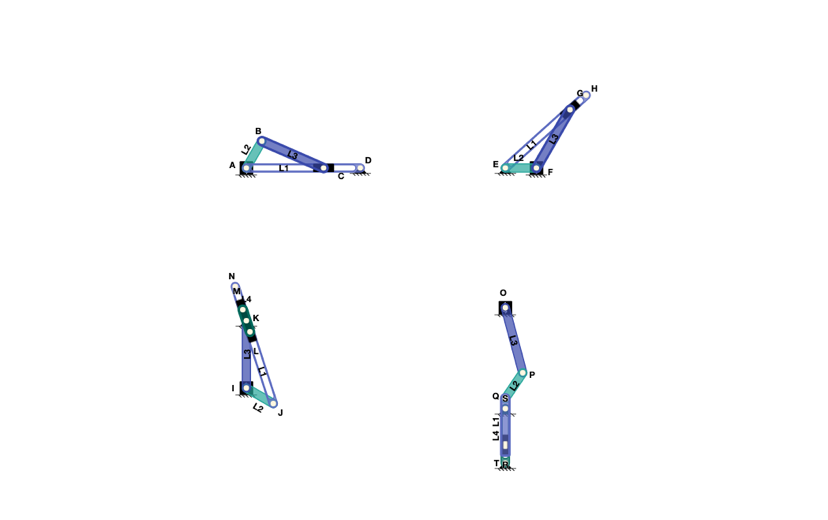
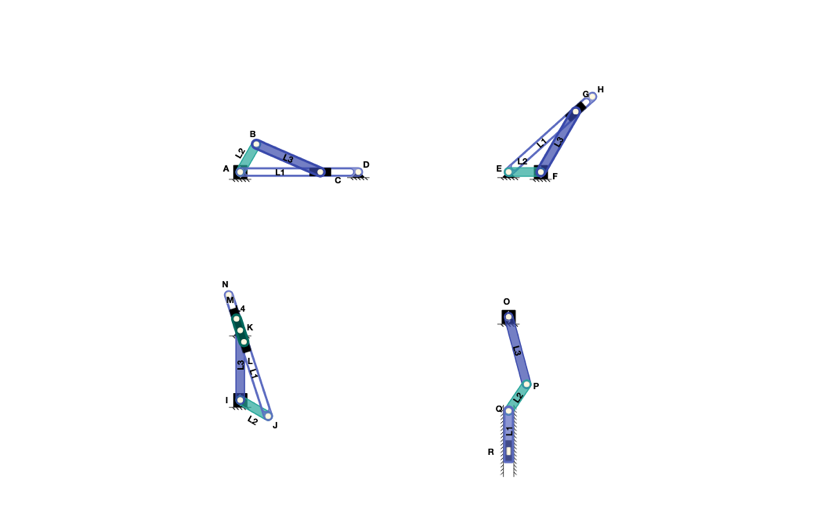
Run the pendulum pump's rod in a ground guide, so the guide can be seen
Watching it play, the dark-teal barrel was hidden under the indigo pump rod
on the same line, with only a sliver showing at the bottom, and the labels
of four joints piled on each other. The rod now runs in a ground guide, drawn
with hatching like a fixed barrel, which reads as what it is: the piston, held,
is the frame. A moving slot over a fixed pin would have kept L4 as a bar of
its own, but the app cannot slide a slider's pin on ground.

diff --git a/src/app/component/MODALS/templates/template-linkages.ts b/src/app/component/MODALS/templates/template-linkages.ts
@@ -239,7 +239,7 @@ export const TEMPLATE_LINKAGES: Record<TemplateID, string> = {
   Four_Bar_Inversions:
     '2v.Ay,1E8.5,0.1011.6A,A,0,1Tm,0,,,,2SG,,Crank-rocker (L4 grounded).0B,B,DY,1ba,0.0C,C,D9,24q,0.4D,D,d4,1Tm,0.6E,E,2Ce,1Tm,0,,,,2SG,,Crank-rocker (L2 grounded).0F,F,2QA,1ba,0.0G,G,2Yd,2Bj,0.4H,H,2hu,1Tm,0.6I,I,0,0,0,,,,2SG,,Double crank or drag link (L1 grounded).0J,J,05R,Uo,0.0K,K,fR,TL,0.4L,L,Fe,0,0.6M,M,2Ce,0,0,,,,2SG,,Double rocker (L3 grounded).0N,N,2NK,TN,0.0O,O,2cX,Wz,0.4P,P,2xW,0,0..YRAB,L1,0,0,6n,1Xg,303e9f,A,B,,.YRBC,L2,0,0,DM,1rC,26A69A,B,C,,.YRCD,L3,0,0,Q7,1nI,0d125a,C,D,,.YRAD,L4,0,0,JY,1Tm,00695C,A,D,,.YREF,L1,0,0,2JP,1Xg,303e9f,E,F,,.YRFG,L4,0,0,2UO,1ue,00695C,F,G,,.YRGH,L3,0,0,2dF,1qk,0d125a,G,H,,.YREH,L2,0,0,2SG,1Tm,26A69A,E,H,,.YRIJ,L2,0,0,02k,FP,26A69A,I,J,,.YRJK,L3,0,0,I0,U3,0d125a,J,K,,.YRKL,L4,0,0,SY,Eh,00695C,K,L,,.YRIL,L1,0,0,7q,0,303e9f,I,L,,.YRMN,L2,0,0,2H_,Ei,26A69A,M,N,,.YRNO,L1,0,0,2Ux,VA,303e9f,N,O,,.YROP,L4,0,0,2n1,GU,00695C,O,P,,.YRMP,L3,0,0,2a4,0,0d125a,M,P,,...N_.PJB~0~0.8660254037844388,PJC~0~0.8414601849332004,PJC~1~8.499849131815395,PJF~0~9.86602540378444,PJG~0~10.406904838222296,PJG~1~8.940788691673696,PJJ~0~-0.3472963553338606,PJJ~1~1.969615506024416,PJK~0~2.651275029272438,PJK~1~1.8770430942579102,PJN~0~9.684040286651337,PJN~1~1.8793852415718166,PJO~0~10.657354236661728,PJO~1~2.108862810661185,PLAB~2~0.4330127018922194,PLBC~2~0.8537427943588196,PLBC~3~7.499924565907698,PLCD~2~1.6707300924666,PLCD~3~7.249924565907698,PLEF~2~9.43301270189222,PLFG~2~10.136465121003368,PLFG~3~7.720394345836848,PLGH~2~10.703452419111148,PLGH~3~7.470394345836848,PLIJ~2~-0.1736481776669303,PLIJ~3~0.984807753012208,PLJK~2~1.1519893369692884,PLJK~3~1.923329300141163,PLKL~2~1.825637514636219,PLKL~3~0.9385215471289551,PLMN~2~9.34202014332567,PLMN~3~0.9396926207859083,PLNO~2~10.170697261656533,PLNO~3~1.9941240261165007,PLOP~2~11.328677118330866,PLOP~3~1.0544314053305925C*47sgEB',
   Slider_Crank_Inversions:
-    '2v.Ay,1E8.5,0.1011.6A,A,0,2Ce,0,,,,2SG,,Engine (L1 grounded).0B,B,9O,2St,0.1C,C,kd,2Ce,0,AD,A,D.4D,D,14m,2Ce,0.4E,E,2SG,2Ce,0.6F,F,2l0,2Ce,0,,,,2SG,,Quick return (L2 grounded).1G,G,33K,2lq,0,EH,E,H.0H,H,3D1,2uZ,0.6I,I,0,7q,0,,,,2SG,,Oscillating cylinder (L3 grounded).0J,J,GF,01a,0.4K,K,0,mS,0.1L,L,2B,fm,0,JN,J,N.1M,M,02B,t8,0,JN,J,N.0N,N,06i,152,0.6O,O,2SG,uG,0,,,,2SG,,Pendulum pump (L4 grounded).0P,P,2cn,H1,0.0Q,Q,2SG,1V,0.9R,R,2SG,0Qf,0,ST,S,T.4S,S,2SG,04i,0.4T,T,2SG,0bW,0..YRAB,L2,0,0,4i,2Km,26A69A,A,B,,.YRBC,L3,0,0,S0,2Km,0d125a,B,C,,.YRAD,L1,0,0,YO,2Ce,303e9f,A,D,,.YRFG,L3,0,0,2vA,2UE,0d125a,F,G,,.YREH,L1,0,0,2qe,2Yb,303e9f,E,H,,.YREF,L2,0,0,2be,2Ce,26A69A,E,F,,.YRIJ,L2,0,0,88,38,26A69A,I,J,,.YRIK,L3,0,0,0,S8,0d125a,I,K,,.YRKLM,L4,0,0,0,mS,00695C,K,L,M,,.YRJN,L1,0,0,4o,Xl,303e9f,J,N,,.YROP,L3,0,0,2XW,ae,0d125a,O,P,,.YRPQ,L2,0,0,2XW,9G,26A69A,P,Q,,.YRQR,L1,0,0,2SG,0Cb,303e9f,Q,R,,.YRST,L4,0,0,2SG,0L6,00695C,S,T,,...N_.PJB~0~0.6000000000000001,PJB~1~10.039230484541326,PJC~0~2.9832750575625973,PJD~0~4.3999999999999995,PJG~1~11.25166604983954,PJH~0~13.120801065958263,PJH~1~11.810800723408507,PJJ~0~1.0392304845413265,PJJ~1~-0.09999999999999985,PJL~0~0.1389956401685525,PJL~1~2.67200442524001,PJM~0~-0.1389956401685525,PJM~1~3.52799557475999,PJN~0~-0.4279457172378389,PJN~1~4.417731066911006,PJP~0~10.672929517266553,PJP~1~1.0885928516484222,PJQ~1~0.095030641823892,PJR~1~-1.7049693581761083,PJS~1~-0.29999999999999993,PLAB~2~0.30000000000000004,PLAB~3~9.519615242270664,PLBC~2~1.7916375287812984,PLBC~3~9.519615242270664,PLAD~2~2.1999999999999997,PLFG~3~10.125833024919771,PLEH~2~11.56040053297913,PLEH~3~10.405400361704253,PLIJ~2~0.5196152422706632,PLIJ~3~0.20000000000000007,PLJN~2~0.3056423836517438,PLJN~3~2.1588655334555034,PLOP~2~10.336464758633277,PLOP~3~2.3442964258242114,PLPQ~2~10.336464758633277,PLPQ~3~0.5918117467361571,PLQR~3~-0.804969358176108G*2ANxqz',
+    '2v.Ay,1E8.5,0.1011.6A,A,0,2Ce,0,,,,2SG,,Engine (L1 grounded).0B,B,9O,2St,0.1C,C,kd,2Ce,0,AD,A,D.4D,D,14m,2Ce,0.4E,E,2SG,2Ce,0.6F,F,2l0,2Ce,0,,,,2SG,,Quick return (L2 grounded).1G,G,33K,2lq,0,EH,E,H.0H,H,3D1,2uZ,0.6I,I,0,7q,0,,,,2SG,,Oscillating cylinder (L3 grounded).0J,J,GF,01a,0.4K,K,0,mS,0.1L,L,2B,fm,0,JN,J,N.1M,M,02B,t8,0,JN,J,N.0N,N,06i,152,0.6O,O,2SG,uG,0,,,,2SG,,Pendulum pump (L4 grounded).0P,P,2cn,H1,0.0Q,Q,2SG,1V,0.DR,R,2SG,0Lz,OZ..YRAB,L2,0,0,4i,2Km,26A69A,A,B,,.YRBC,L3,0,0,S0,2Km,0d125a,B,C,,.YRAD,L1,0,0,YO,2Ce,303e9f,A,D,,.YRFG,L3,0,0,2vA,2UE,0d125a,F,G,,.YREH,L1,0,0,2qe,2Yb,303e9f,E,H,,.YREF,L2,0,0,2be,2Ce,26A69A,E,F,,.YRIJ,L2,0,0,88,38,26A69A,I,J,,.YRIK,L3,0,0,0,S8,0d125a,I,K,,.YRKLM,L4,0,0,0,mS,00695C,K,L,M,,.YRJN,L1,0,0,4o,Xl,303e9f,J,N,,.YROP,L3,0,0,2XW,ae,0d125a,O,P,,.YRPQ,L2,0,0,2XW,9G,26A69A,P,Q,,.YRQR,L1,0,0,2SG,0AF,303e9f,Q,R,,...N_.PJB~0~0.6000000000000001,PJB~1~10.039230484541326,PJC~0~2.9832750575625973,PJD~0~4.3999999999999995,PJG~1~11.25166604983954,PJH~0~13.120801065958263,PJH~1~11.810800723408507,PJJ~0~1.0392304845413265,PJJ~1~-0.09999999999999985,PJL~0~0.1389956401685525,PJL~1~2.67200442524001,PJM~0~-0.1389956401685525,PJM~1~3.52799557475999,PJN~0~-0.4279457172378389,PJN~1~4.417731066911006,PJP~0~10.672929517266553,PJP~1~1.0885928516484222,PJQ~1~0.095030641823892,PJR~1~-1.4049693581761078,PJR~2~1.5707963267948966,PLAB~2~0.30000000000000004,PLAB~3~9.519615242270664,PLBC~2~1.7916375287812984,PLBC~3~9.519615242270664,PLAD~2~2.1999999999999997,PLFG~3~10.125833024919771,PLEH~2~11.56040053297913,PLEH~3~10.405400361704253,PLIJ~2~0.5196152422706632,PLIJ~3~0.20000000000000007,PLJN~2~0.3056423836517438,PLJN~3~2.1588655334555034,PLOP~2~10.336464758633277,PLOP~3~2.3442964258242114,PLPQ~2~10.336464758633277,PLPQ~3~0.5918117467361571,PLQR~3~-0.6549693581761087*2qedAO',
   Four_Bar:
     '2v.Fe,1E8.A,0.1011.6A,A,0mv,0VU,0,,,,,,Four-bar.0B,B,0e_,E6,0.0C,C,l1,WW,0.4D,D,qD,0Pk,0.GT,T,02W,ni,0..YRAB,AB,0,0,0ix,08i,303e9f,A,B,,.YRBCT,BCT,0,0,1C,W6,26A69A,B,C,T,,.YRCD,CD,0,0,nd,3P,0d125a,C,D,,...N_.PJA~0~-3.1289999999999996,PJT~0~-0.1599,PJT~1~3.1803,PLAB~2~-2.8754999999999997,PLAB~3~-0.5559999999999998,PLBCT~2~0.0757,PLBCT~3~2.0541,PLCD~3~0.2170000000000001y*2vMrJT',
   Scotch_Yoke_Rod:

diff --git a/src/test-utils/verification/inversion-fixtures.ts b/src/test-utils/verification/inversion-fixtures.ts
@@ -244,12 +244,14 @@ export function fourBarInversionsFixture(): MechanismFixture {
  * offset, and the slide is between L1 and L4 in all four. What changes is
  * which link is held.
  *
- * The held link is drawn in every one, the way the four-bar set draws its
- * held bar: the frame as the rail the piston runs on, anchored at both ends;
- * the crank and the rod as bars across their two ground pins; and the piston,
- * in the pump, as the barrel the pump rod runs in, below the pin the pendulum
- * hangs from. Where L4 is a block it is drawn as one, black; where it is a
- * part of its own it is dark teal, the color L4 wears in the four-bar set.
+ * The held link is drawn wherever it is a bar, the way the four-bar set
+ * draws its held bar: the frame as the rail the piston runs on, anchored at
+ * both ends, and the crank and the rod as bars across their two ground pins.
+ * Held by the piston, the frame is the piston: the pin the pendulum hangs
+ * from and the guide the pump rod runs in, both drawn as ground. Where L4 is
+ * a block it is drawn as one, black; where it is a part of its own, the
+ * oscillating engine's cylinder, it is dark teal, the color L4 wears in the
+ * four-bar set.
  *
  * Laid out two by two with room between, since the Whitworth's slotted bar
  * sweeps a circle ROD + CRANK across and the other three reach up or down
@@ -362,11 +364,17 @@ export function sliderCrankInversionsFixture(): MechanismFixture {
   // ---- Held: L4, the piston. Pendulum pump. ------------------------------
   // The piston's two features are fixed now: the gudgeon pin, at the top,
   // which the rod swings from like a pendulum, and the slide, which is the
-  // pump's barrel below it on the same vertical line. The crank links the
+  // pump's guide below it on the same vertical line. The crank links the
   // pendulum to L1, the frame, which is the pump rod now, running up and
-  // down in the barrel. The pendulum can swing only as far as the crank can
+  // down in the guide. The pendulum can swing only as far as the crank can
   // still reach the line, asin(CRANK / ROD) either side of it, and it is
   // driven between those two toggles.
+  //
+  // The guide is drawn as ground rather than as a bar of its own: a bar
+  // carrying the slot sits on the same line as the rod and is hidden under
+  // it, and the app cannot slide a moving slot over a fixed pin to turn the
+  // two round. The rod is welded to its block, as a pump rod is to its
+  // plunger, so it runs straight up and down without tilting.
   const pumpAt = { x: 10, y: 3.6 };
   const swing = (15 * Math.PI) / 180;
   const pendulumEnd = { x: pumpAt.x + ROD * Math.sin(swing), y: pumpAt.y - ROD * Math.cos(swing) };
@@ -374,25 +382,20 @@ export function sliderCrankInversionsFixture(): MechanismFixture {
     x: pumpAt.x,
     y: pendulumEnd.y - Math.sqrt(CRANK * CRANK - (pendulumEnd.x - pumpAt.x) ** 2),
   };
-  // The top of the pump rod stays between ROD cos(asin(CRANK / ROD)) and
-  // ROD + CRANK below the pivot; the barrel takes the rod's lower end.
-  const PUMP_ROD = 1.8;
+  const PUMP_ROD = 1.5;
   const pump: MechanismFixture = {
     joints: [
       { id: 'O', ...pumpAt, ground: true, input: true, driveSpeed: LIBRARY_RPM },
       { id: 'P', ...pendulumEnd },
       { id: 'Q', ...rodTop },
       { id: 'R', x: pumpAt.x, y: rodTop.y - PUMP_ROD },
-      { id: 'S', x: pumpAt.x, y: pumpAt.y - ROD - CRANK - 0.1, ground: true },
-      { id: 'T', x: pumpAt.x, y: pumpAt.y - ROD - CRANK - PUMP_ROD - 0.4, ground: true },
     ],
     links: [
       { joints: 'OP', name: 'L3', mass: 0, moi: 0 },
       { joints: 'PQ', name: 'L2', mass: 0, moi: 0 },
       { joints: 'QR', name: 'L1', mass: 0, moi: 0 },
-      { joints: 'ST', name: 'L4', mass: 0, moi: 0 },
     ],
-    sliders: [{ at: 'R', on: { carrier: 'ST', a: 'S', b: 'T' } }],
+    sliders: [{ at: 'R', angleRad: Math.PI / 2 }],
     welds: ['R'],
     inputAngVel: radPerSecond(LIBRARY_RPM),
   };

diff --git a/src/tests/verification/inversions.spec.ts b/src/tests/verification/inversions.spec.ts
@@ -216,22 +216,29 @@ describe('one slider-crank chain, each link held still in turn', () => {
     expect(named('L1')).toEqual(['AD', 'EH', 'JN', 'QR']);
     expect(named('L2')).toEqual(['AB', 'EF', 'IJ', 'PQ']);
     expect(named('L3')).toEqual(['BC', 'FG', 'IK', 'OP']);
-    expect(named('L4')).toEqual(['KLM', 'ST']);
+    expect(named('L4')).toEqual(['KLM']);
     // The slide is between L1 and L4 every time: the block on L1's rail or
     // slot in the first two, L4's sleeve on L1's slot in the third, and L1's
-    // rod in L4's barrel in the fourth.
-    const carrier = (at: string) =>
-      fixture.links.find(
-        (link) => link.joints === fixture.sliders!.find((s) => s.at === at)!.on!.carrier
-      )!.name;
-    expect(['C', 'G', 'L', 'M', 'R'].map(carrier)).toEqual(['L1', 'L1', 'L1', 'L1', 'L4']);
+    // rod in L4's guide, which is the ground, in the fourth.
+    const carrier = (at: string) => {
+      const on = fixture.sliders!.find((slider) => slider.at === at)!.on;
+      return on ? fixture.links.find((link) => link.joints === on.carrier)!.name : 'ground';
+    };
+    expect(['C', 'G', 'L', 'M', 'R'].map(carrier)).toEqual(['L1', 'L1', 'L1', 'L1', 'ground']);
+    expect(fixture.welds).toEqual(['R']);
   });
 
-  it('holds a different link still each time, and draws it', () => {
+  it('holds a different link still each time, and draws it where it is a bar', () => {
+    // The frame, the crank and the rod are each drawn across their two ground
+    // pins. Held by the piston, the held link is the ground itself: the pin
+    // the pendulum hangs from and the guide the pump rod runs in.
     const fixture = sliderCrankInversionsFixture();
     const grounded = (id: string) => fixture.joints.find((joint) => joint.id === id)!.ground;
     const held = fixture.links.filter((link) => [...link.joints].every(grounded));
-    expect(held.map((link) => link.name)).toEqual(['L1', 'L2', 'L3', 'L4']);
+    expect(held.map((link) => link.name)).toEqual(['L1', 'L2', 'L3']);
+    const pump = fixture.sliders!.find((slider) => slider.at === 'R')!;
+    expect(pump.on).toBeUndefined();
+    expect(grounded('O')).toBe(true);
   });
 
   it('turns the slotted bar right over for one and rocks the cylinder for the other', () => {

diff --git a/src/app/model/mechanism/kinematic-solver.ts b/src/app/model/mechanism/kinematic-solver.ts
@@ -167,8 +167,8 @@ export class KinematicsSolver {
    * A link pinned to ground at every one of its joints cannot move, so no route
    * above solves for it -- and the panel went on offering it the same graphs as
    * anything else, which came back as charts with no data in them. Four of them
-   * in `Four_Bar_Inversions` and four in `Slider_Crank_Inversions`, which draw
-   * their frames rather than leaving them implied: eighty empty series between
+   * in `Four_Bar_Inversions` and three in `Slider_Crank_Inversions`, which draw
+   * their frames rather than leaving them implied: seventy empty series between
    * them.
    *
    * Its kinematics are not missing, though. They are zero, and a flat line

diff --git a/src/test-utils/verification/template-colors.ts b/src/test-utils/verification/template-colors.ts
@@ -207,7 +207,7 @@ const TEMPLATE_PARTS: Partial<Record<LibraryTemplateID, TemplateParts>> = {
       ['AB', 'BC', 'AD'],
       ['FG', 'EH', 'EF'],
       ['IJ', 'IK', 'KLM', 'JN'],
-      ['OP', 'PQ', 'QR', 'ST'],
+      ['OP', 'PQ', 'QR'],
     ],
     fixed: {
       AB: 4,
@@ -223,7 +223,6 @@ const TEMPLATE_PARTS: Partial<Record<LibraryTemplateID, TemplateParts>> = {
       OP: 2,
       PQ: 4,
       QR: 1,
-      ST: 5,
     },
   },
   Pumping_Field: {

diff --git a/docs/fixture-urls.md b/docs/fixture-urls.md
@@ -115,7 +115,7 @@ PMKS_FIXTURE_BASE_URL=https://deploy-preview-NNN--pmksprod.netlify.app npm run f
 | [Screw jack](https://app.pmksplus.com/?2v.Ay,YO.5,0.1011.7A,A,0ID,0,0.0B,B,G4,FE,0.4C,C,0,YO,0..YRAB,AB,0,0,014,7d,c5cae9,A,B,,.YRBC,BC,0,0,82,Op,303e9f,B,C,,...N_.PJA~0~-1.1648667978787246,PJB~0~1.028460175498463,PJB~1~0.9743288910096353,PLAB~2~-0.06820331119013079,PLAB~3~0.48716444550481763,PLBC~2~0.5142300877492315,PLBC~3~1.5871644455048177w*3S9tcB) | A plain guided ram, no cylinder skin: the drive is a length per second, not an rpm | — | — | `linear-actuator-rocker.spec.ts` |
 | [Loader bucket](https://app.pmksplus.com/?2v.Ay,1E8.A,0.1011.6O,O,0,0,0,,,,2SG.0A,A,xS,JK,0.8M,M,1B4,GC,0.0B,B,1Na,Rw,0.8C,C,1GY,1M,0.0D,D,1be,01o,0.4P,P,o0,r8,0..YROA,Lift arm,0,0,Tk,9g,c5cae9,O,A,,.YRAMBCD,Bucket,0,0,1Gs,Cc,00695C,A,M,B,C,D,,AM,MB,MC,CD.YRBP,Tilt link,0,0,14o,eX,c5cae9,B,P,,.NRAM,AM,0,0,13G,Hm,303e9f,A,M,,.NRMB,MB,0,0,1HK,M3,0d125a,M,B,,.NRMC,MC,0,0,1Dp,8n,B2DFDB,M,C,,.NRCD,CD,0,0,1R5,0E,26A69A,C,D,,...N_.PJA~0~3.804226065180614,PJA~1~1.2360679774997896,PJM~0~4.804226065180615,PJM~1~1.0360679774997896,PJB~0~5.604226065180614,PJB~1~1.7860679774997896,PJC~0~5.154226065180614,PJC~1~0.08606797749978966,PJD~0~6.504226065180614,PJD~1~-0.11393202250021052,PLOA~2~1.902113032590307,PLOA~3~0.6180339887498948,PLAMBCD~2~5.174226065180614,PLAMBCD~3~0.8060679774997895,PLBP~2~4.402113032590307,PLBP~3~2.5930339887498945,PLAM~2~4.304226065180615,PLAM~3~1.1360679774997897,PLMB~2~5.204226065180615,PLMB~3~1.4110679774997896,PLMC~2~4.979226065180614,PLMC~3~0.5610679774997896,PLCD~2~5.829226065180615,PLCD~3~-0.0139320225002104177*1MAviJ) | Four bars welded into a scoop: a bucket is a shape, and a shape is what a weld makes | — | — | `loader-bucket.spec.ts` |
 | [Four-bar inversions](https://app.pmksplus.com/?2v.Ay,1E8.5,0.1011.6A,A,0,1Tm,0,,,,2SG.0B,B,DY,1ba,0.0C,C,D9,24q,0.4D,D,d4,1Tm,0.6E,E,2Ce,1Tm,0,,,,2SG.0F,F,2QA,1ba,0.0G,G,2Yd,2Bj,0.4H,H,2hu,1Tm,0.6I,I,0,0,0,,,,2SG.0J,J,05R,Uo,0.0K,K,fR,TL,0.4L,L,Fe,0,0.6M,M,2Ce,0,0,,,,2SG.0N,N,2NK,TN,0.0O,O,2cX,Wz,0.4P,P,2xW,0,0..YRAB,L1,0,0,6n,1Xg,c5cae9,A,B,,.YRBC,L2,0,0,DM,1rC,303e9f,B,C,,.YRCD,L3,0,0,Q7,1nI,0d125a,C,D,,.YRAD,L4,0,0,JY,1Tm,B2DFDB,A,D,,.YREF,L1,0,0,2JP,1Xg,26A69A,E,F,,.YRFG,L4,0,0,2UO,1ue,00695C,F,G,,.YRGH,L3,0,0,2dF,1qk,c5cae9,G,H,,.YREH,L2,0,0,2SG,1Tm,303e9f,E,H,,.YRIJ,L2,0,0,02k,FP,0d125a,I,J,,.YRJK,L3,0,0,I0,U3,B2DFDB,J,K,,.YRKL,L4,0,0,SY,Eh,26A69A,K,L,,.YRIL,L1,0,0,7q,0,00695C,I,L,,.YRMN,L2,0,0,2H_,Ei,c5cae9,M,N,,.YRNO,L1,0,0,2Ux,VA,303e9f,N,O,,.YROP,L4,0,0,2n1,GU,0d125a,O,P,,.YRMP,L3,0,0,2a4,0,B2DFDB,M,P,,...N_.PJB~0~0.8660254037844388,PJC~0~0.8414601849332004,PJC~1~8.499849131815395,PJF~0~9.86602540378444,PJG~0~10.406904838222296,PJG~1~8.940788691673696,PJJ~0~-0.3472963553338606,PJJ~1~1.969615506024416,PJK~0~2.651275029272438,PJK~1~1.8770430942579102,PJN~0~9.684040286651337,PJN~1~1.8793852415718166,PJO~0~10.657354236661728,PJO~1~2.108862810661185,PLAB~2~0.4330127018922194,PLBC~2~0.8537427943588196,PLBC~3~7.499924565907698,PLCD~2~1.6707300924666,PLCD~3~7.249924565907698,PLEF~2~9.43301270189222,PLFG~2~10.136465121003368,PLFG~3~7.720394345836848,PLGH~2~10.703452419111148,PLGH~3~7.470394345836848,PLIJ~2~-0.1736481776669303,PLIJ~3~0.984807753012208,PLJK~2~1.1519893369692884,PLJK~3~1.923329300141163,PLKL~2~1.825637514636219,PLKL~3~0.9385215471289551,PLMN~2~9.34202014332567,PLMN~3~0.9396926207859083,PLNO~2~10.170697261656533,PLNO~3~1.9941240261165007,PLOP~2~11.328677118330866,PLOP~3~1.0544314053305925A*4UStay) | One chain, each of its four links held still in turn — four machines out of four bars | — | — | `inversions.spec.ts` |
-| [Slider-crank inversions](https://app.pmksplus.com/?2v.Ay,1E8.5,0.1011.6A,A,0,2Ce,0,,,,2SG.0B,B,9O,2St,0.1C,C,kd,2Ce,0,AD,A,D.4D,D,14m,2Ce,0.4E,E,2SG,2Ce,0.6F,F,2l0,2Ce,0,,,,2SG.1G,G,33K,2lq,0,EH,E,H.0H,H,3D1,2uZ,0.6I,I,0,7q,0,,,,2SG.0J,J,GF,01a,0.4K,K,0,mS,0.1L,L,2B,fm,0,JN,J,N.1M,M,02B,t8,0,JN,J,N.0N,N,06i,152,0.6O,O,2SG,uG,0,,,,2SG.0P,P,2cn,H1,0.0Q,Q,2SG,1V,0.9R,R,2SG,0Qf,0,ST,S,T.4S,S,2SG,04i,0.4T,T,2SG,0bW,0..YRAB,L2,0,0,4i,2Km,c5cae9,A,B,,.YRBC,L3,0,0,S0,2Km,303e9f,B,C,,.YRAD,L1,0,0,YO,2Ce,0d125a,A,D,,.YRFG,L3,0,0,2vA,2UE,B2DFDB,F,G,,.YREH,L1,0,0,2qe,2Yb,26A69A,E,H,,.YREF,L2,0,0,2be,2Ce,00695C,E,F,,.YRIJ,L2,0,0,88,38,c5cae9,I,J,,.YRIK,L3,0,0,0,S8,303e9f,I,K,,.YRKLM,L4,0,0,0,mS,0d125a,K,L,M,,.YRJN,L1,0,0,4o,Xl,B2DFDB,J,N,,.YROP,L3,0,0,2XW,ae,26A69A,O,P,,.YRPQ,L2,0,0,2XW,9G,00695C,P,Q,,.YRQR,L1,0,0,2SG,0Cb,c5cae9,Q,R,,.YRST,L4,0,0,2SG,0L6,303e9f,S,T,,...N_.PJB~0~0.6000000000000001,PJB~1~10.039230484541326,PJC~0~2.9832750575625973,PJD~0~4.3999999999999995,PJG~1~11.25166604983954,PJH~0~13.120801065958263,PJH~1~11.810800723408507,PJJ~0~1.0392304845413265,PJJ~1~-0.09999999999999985,PJL~0~0.1389956401685525,PJL~1~2.67200442524001,PJM~0~-0.1389956401685525,PJM~1~3.52799557475999,PJN~0~-0.4279457172378389,PJN~1~4.417731066911006,PJP~0~10.672929517266553,PJP~1~1.0885928516484222,PJQ~1~0.095030641823892,PJR~1~-1.7049693581761083,PJS~1~-0.29999999999999993,PLAB~2~0.30000000000000004,PLAB~3~9.519615242270664,PLBC~2~1.7916375287812984,PLBC~3~9.519615242270664,PLAD~2~2.1999999999999997,PLFG~3~10.125833024919771,PLEH~2~11.56040053297913,PLEH~3~10.405400361704253,PLIJ~2~0.5196152422706632,PLIJ~3~0.20000000000000007,PLJN~2~0.3056423836517438,PLJN~3~2.1588655334555034,PLOP~2~10.336464758633277,PLOP~3~2.3442964258242114,PLPQ~2~10.336464758633277,PLPQ~3~0.5918117467361571,PLQR~3~-0.804969358176108P*1jEeGI) | The same for a chain with a slider: engine, quick-return, oscillating cylinder, pump | yes | yes | `inversions.spec.ts` |
+| [Slider-crank inversions](https://app.pmksplus.com/?2v.Ay,1E8.5,0.1011.6A,A,0,2Ce,0,,,,2SG.0B,B,9O,2St,0.1C,C,kd,2Ce,0,AD,A,D.4D,D,14m,2Ce,0.4E,E,2SG,2Ce,0.6F,F,2l0,2Ce,0,,,,2SG.1G,G,33K,2lq,0,EH,E,H.0H,H,3D1,2uZ,0.6I,I,0,7q,0,,,,2SG.0J,J,GF,01a,0.4K,K,0,mS,0.1L,L,2B,fm,0,JN,J,N.1M,M,02B,t8,0,JN,J,N.0N,N,06i,152,0.6O,O,2SG,uG,0,,,,2SG.0P,P,2cn,H1,0.0Q,Q,2SG,1V,0.DR,R,2SG,0Lz,OZ..YRAB,L2,0,0,4i,2Km,c5cae9,A,B,,.YRBC,L3,0,0,S0,2Km,303e9f,B,C,,.YRAD,L1,0,0,YO,2Ce,0d125a,A,D,,.YRFG,L3,0,0,2vA,2UE,B2DFDB,F,G,,.YREH,L1,0,0,2qe,2Yb,26A69A,E,H,,.YREF,L2,0,0,2be,2Ce,00695C,E,F,,.YRIJ,L2,0,0,88,38,c5cae9,I,J,,.YRIK,L3,0,0,0,S8,303e9f,I,K,,.YRKLM,L4,0,0,0,mS,0d125a,K,L,M,,.YRJN,L1,0,0,4o,Xl,B2DFDB,J,N,,.YROP,L3,0,0,2XW,ae,26A69A,O,P,,.YRPQ,L2,0,0,2XW,9G,00695C,P,Q,,.YRQR,L1,0,0,2SG,0AF,c5cae9,Q,R,,...N_.PJB~0~0.6000000000000001,PJB~1~10.039230484541326,PJC~0~2.9832750575625973,PJD~0~4.3999999999999995,PJG~1~11.25166604983954,PJH~0~13.120801065958263,PJH~1~11.810800723408507,PJJ~0~1.0392304845413265,PJJ~1~-0.09999999999999985,PJL~0~0.1389956401685525,PJL~1~2.67200442524001,PJM~0~-0.1389956401685525,PJM~1~3.52799557475999,PJN~0~-0.4279457172378389,PJN~1~4.417731066911006,PJP~0~10.672929517266553,PJP~1~1.0885928516484222,PJQ~1~0.095030641823892,PJR~1~-1.4049693581761078,PJR~2~1.5707963267948966,PLAB~2~0.30000000000000004,PLAB~3~9.519615242270664,PLBC~2~1.7916375287812984,PLBC~3~9.519615242270664,PLAD~2~2.1999999999999997,PLFG~3~10.125833024919771,PLEH~2~11.56040053297913,PLEH~3~10.405400361704253,PLIJ~2~0.5196152422706632,PLIJ~3~0.20000000000000007,PLJN~2~0.3056423836517438,PLJN~3~2.1588655334555034,PLOP~2~10.336464758633277,PLOP~3~2.3442964258242114,PLPQ~2~10.336464758633277,PLPQ~3~0.5918117467361571,PLQR~3~-0.654969358176108G*1xjBzD) | The same for a chain with a slider: engine, quick-return, oscillating cylinder, pump | yes | yes | `inversions.spec.ts` |
 | [Walking pair](https://app.pmksplus.com/?2v.1jO,1E8.5,0.1011.6A,A,0,0,0,,,,2SG.0B,B,3gO,0,0.4C,C,09Hm,01vu,0.0D,D,05tE,7ee,0.0E,E,0IGg,1-F,0.0F,F,06b8,0B7B,0.0G,G,0ETW,06sL,0.GH,H,0AYO,0MPj,0.6I,I,adm,0,0,,,,2SG.0J,J,WzO,0,0.4K,K,RM0,01vu,0.0L,L,NDQ,7M8,0.0M,M,IAZ,05Jn,0.0N,N,KhD,08pO,0.0O,O,C-u,0DR3,0.GP,P,SOk,0Hyj,0..YRAB,AB,0,0,1rC,0,c5cae9,A,B,,.YRBD,BD,0,0,016R,3qK,303e9f,B,D,,.YRCDE,CDE,0,0,0B8Z,2ag,0d125a,C,D,E,,.YRBF,BF,0,0,01TO,05Zc,B2DFDB,B,F,,.YRCF,CF,0,0,07xS,06WY,26A69A,C,F,,.YREG,EG,0,0,0GN5,02RZ,00695C,E,G,,.YRFGH,FGH,0,0,0AXh,0DT4,c5cae9,F,G,H,,.YRIJ,IJ,0,0,Yoa,0,303e9f,I,J,,.YRJL,JL,0,0,S5P,3h4,0d125a,J,L,,.YRKLM,KLM,0,0,Mv-,2r,B2DFDB,K,L,M,,.YRJN,JN,0,0,QqI,04Pi,26A69A,J,N,,.YRKN,KN,0,0,O0c,05Me,00695C,K,N,,.YRMO,MO,0,0,FbD,09NQ,c5cae9,M,O,,.YRNOP,NOP,0,0,Khy,0DP3,303e9f,N,O,P,,...N_.PJD~0~-24.013535097,PJD~1~31.272097455000004,PJE~0~-74.794365381,PJE~1~8.143170206,PJF~0~-26.952107032,PJF~1~-45.515170170000005,PJG~0~-59.231514961,PJG~1~-28.052930231,PJH~0~-43.16011052399999,PJH~1~-91.756932926,PJJ~1~1.2174105685823793e-13,PJL~0~95.06606501495844,PJL~1~30.087885213327155,PJM~0~74.40292882128188,PJM~1~-21.745258649104326,PJN~0~84.68493107509467,PJN~1~-36.05556599348371,PJO~0~53.23987370380835,PJO~1~-54.97905316816977,PJP~0~116.27027046487477,PJP~1~-73.51709740386895,PLBD~2~-4.506767548499999,PLBD~3~15.636048727500002,PLCDE~2~-45.602633492666676,PLCDE~3~10.538422553666667,PLBF~2~-5.976053516,PLBF~3~-22.757585085000002,PLCF~2~-32.476053516,PLCF~3~-26.657585084999997,PLEG~2~-67.012940171,PLEG~3~-9.9548800125,PLFGH~2~-43.11457750566667,PLFGH~3~-55.10834444233333,PLIJ~3~6.087052842911897e-14,PLJL~2~115.03303250747922,PLJL~3~15.043942606663638,PLKLM~2~93.82299794541342,PLKLM~3~0.18087552140760954,PLJN~2~109.84246553754733,PLJN~3~-18.027782996741795,PLKN~2~98.34246553754733,PLKN~3~-21.927782996741854,PLMO~2~63.821401262545116,PLMO~3~-38.36215590863704,PLNOP~2~84.73169174792594,PLNOP~3~-54.85057218850747i*13sACo) | Two Jansen legs half a cycle apart: one foot planted while the other swings | — | — | `ensembles.spec.ts` |
 | [Approximate and exact](https://app.pmksplus.com/?2v.Ay,1E8.5,0.1011.6A,A,0VG,0,0,,,,2SG.0B,B,0Fe,_W,0.0C,C,Fe,_W,0.GD,D,0,_W,0.4E,E,VG,0,0.4G,G,2hu,NS,0.6H,H,2hu,07q,0,,,,2SG.0I,I,36y,0NS,0.0J,J,3jj,0If,0.0K,K,2lP,0sd,0.GL,L,3MA,0nq,0..YRAC,AC,0,0,07q,VG,c5cae9,A,C,,.YRBCD,BCD,0,0,0,_W,303e9f,B,C,D,,.YRBE,BE,0,0,7q,VG,0d125a,B,E,,.YRHI,HI,0,0,2vQ,0Fe,B2DFDB,H,I,,.YRGJ,GJ,0,0,3Cp,2Q,26A69A,G,J,,.YRGK,GK,0,0,2jf,0Fb,00695C,G,K,,.YRJI,JI,0,0,3QL,0L2,c5cae9,J,I,,.YRKI,KI,0,0,2xB,0d1,303e9f,K,I,,.YRJL,JL,0,0,3Xy,0YE,0d125a,J,L,,.YRKL,KL,0,0,32o,0qD,B2DFDB,K,L,,...N_.PJI~0~12.732050807568875,PJJ~0~15.213077239816283,PJJ~1~-1.1925787214753836,PJK~0~11.225302954578968,PJK~1~-3.4949212785246164,PJL~0~13.706329386826372,PJL~1~-3.1875000000000013,PLHI~2~11.866025403784437,PLGJ~2~13.106538619908143,PLGJ~3~0.1537106392623082,PLGK~2~11.112651477289482,PLGK~3~-0.9974606392623082,PLJI~2~13.97256402369258,PLJI~3~-1.3462893607376918,PLKI~2~11.97867688107392,PLKI~3~-2.497460639262308,PLJL~2~14.459703313321327,PLJL~3~-2.1900393607376922,PLKL~2~12.46581617070267,PLKL~3~-3.3412106392623087h*06k1gt) | Chebyshev's line bows and Peaucellier's does not — visible only side by side | — | — | `ensembles.spec.ts` |
 | [Pumping field](https://app.pmksplus.com/?2v.Ay,1E8.5,0.1011.6A,A,0gB,0oI,0,,,,2SG.0B,B,0QZ,0o1,0.0C,C,0d4,0,0.4D,D,0,0,0.0E,E,o0,0,0.5F,F,r8,0eW,OZ.6H,H,2Wz,0oI,0,,,,1z0.0I,I,2mb,0o1,0.0J,J,2a4,0,0.4K,K,3B8,0,0.0L,L,3z8,0,0.5M,M,40G,0eW,OZ.6O,O,5i5,0oI,0,,,,2xW.0P,P,5xj,0o1,0.0Q,Q,5lC,0,0.4R,R,6MG,0,0.0S,S,78G,0,0.5T,T,7BO,0eW,OZ..YRAB,AB,0,0,0YN,0oA,c5cae9,A,B,,.YRBC,BC,0,0,0Wq,0P1,303e9f,B,C,,.YRCDE,CDE,0,0,3f,0,0d125a,C,D,E,,.YREF,EF,0,0,pa,0KG,B2DFDB,E,F,,.YRHI,HI,0,0,2en,0oA,26A69A,H,I,,.YRIJ,IJ,0,0,2gK,0P1,00695C,I,J,,.YRJKL,JKL,0,0,3En,0,c5cae9,J,K,L,,.YRLM,LM,0,0,3_i,0KG,303e9f,L,M,,.YROP,OP,0,0,5pv,0oA,0d125a,O,P,,.YRPQ,PQ,0,0,5rS,0P1,B2DFDB,P,Q,,.YRQRS,QRS,0,0,6Pv,0,26A69A,Q,R,S,,.YRST,ST,0,0,79q,0KG,00695C,S,T,,...N_.PJA~0~-2.6990643176077627,PJA~1~-3.217926632074842,PJB~0~-1.6992015124463058,PJB~1~-3.20136248843078,PJF~1~-2.5922962793631443,PJF~2~1.5707963267948966,PJH~0~10.300935682392238,PJH~1~-3.217926632074842,PJI~0~11.300798487553694,PJI~1~-3.20136248843078,PJM~1~-2.5922962793631443,PJM~2~1.5707963267948966,PJO~0~23.300935682392236,PJO~1~-3.217926632074842,PJP~0~24.3007984875537,PJP~1~-3.20136248843078,PJT~1~-2.5922962793631443,PJT~2~1.5707963267948966,PLAB~2~-2.1991329150270342,PLAB~3~-3.2096445602528108,PLBC~2~-2.099600756223153,PLBC~3~-1.60068124421539,PLCDE~2~0.2333333333333334,PLEF~3~-1.2961481396815722,PLHI~2~10.800867084972966,PLHI~3~-3.2096445602528108,PLIJ~2~10.900399243776846,PLIJ~3~-1.60068124421539,PLJKL~2~13.233333333333334,PLLM~2~16.299999999999997,PLLM~3~-1.2961481396815722,PLOP~2~23.800867084972964,PLOP~3~-3.2096445602528108,PLPQ~2~23.900399243776846,PLPQ~3~-1.60068124421539,PLQRS~2~26.233333333333334,PLST~2~29.299999999999997,PLST~3~-1.2961481396815722z*49rA92) | Three beams on three clocks, drifting out of step the way a real field does | — | — | `ensembles.spec.ts` |
